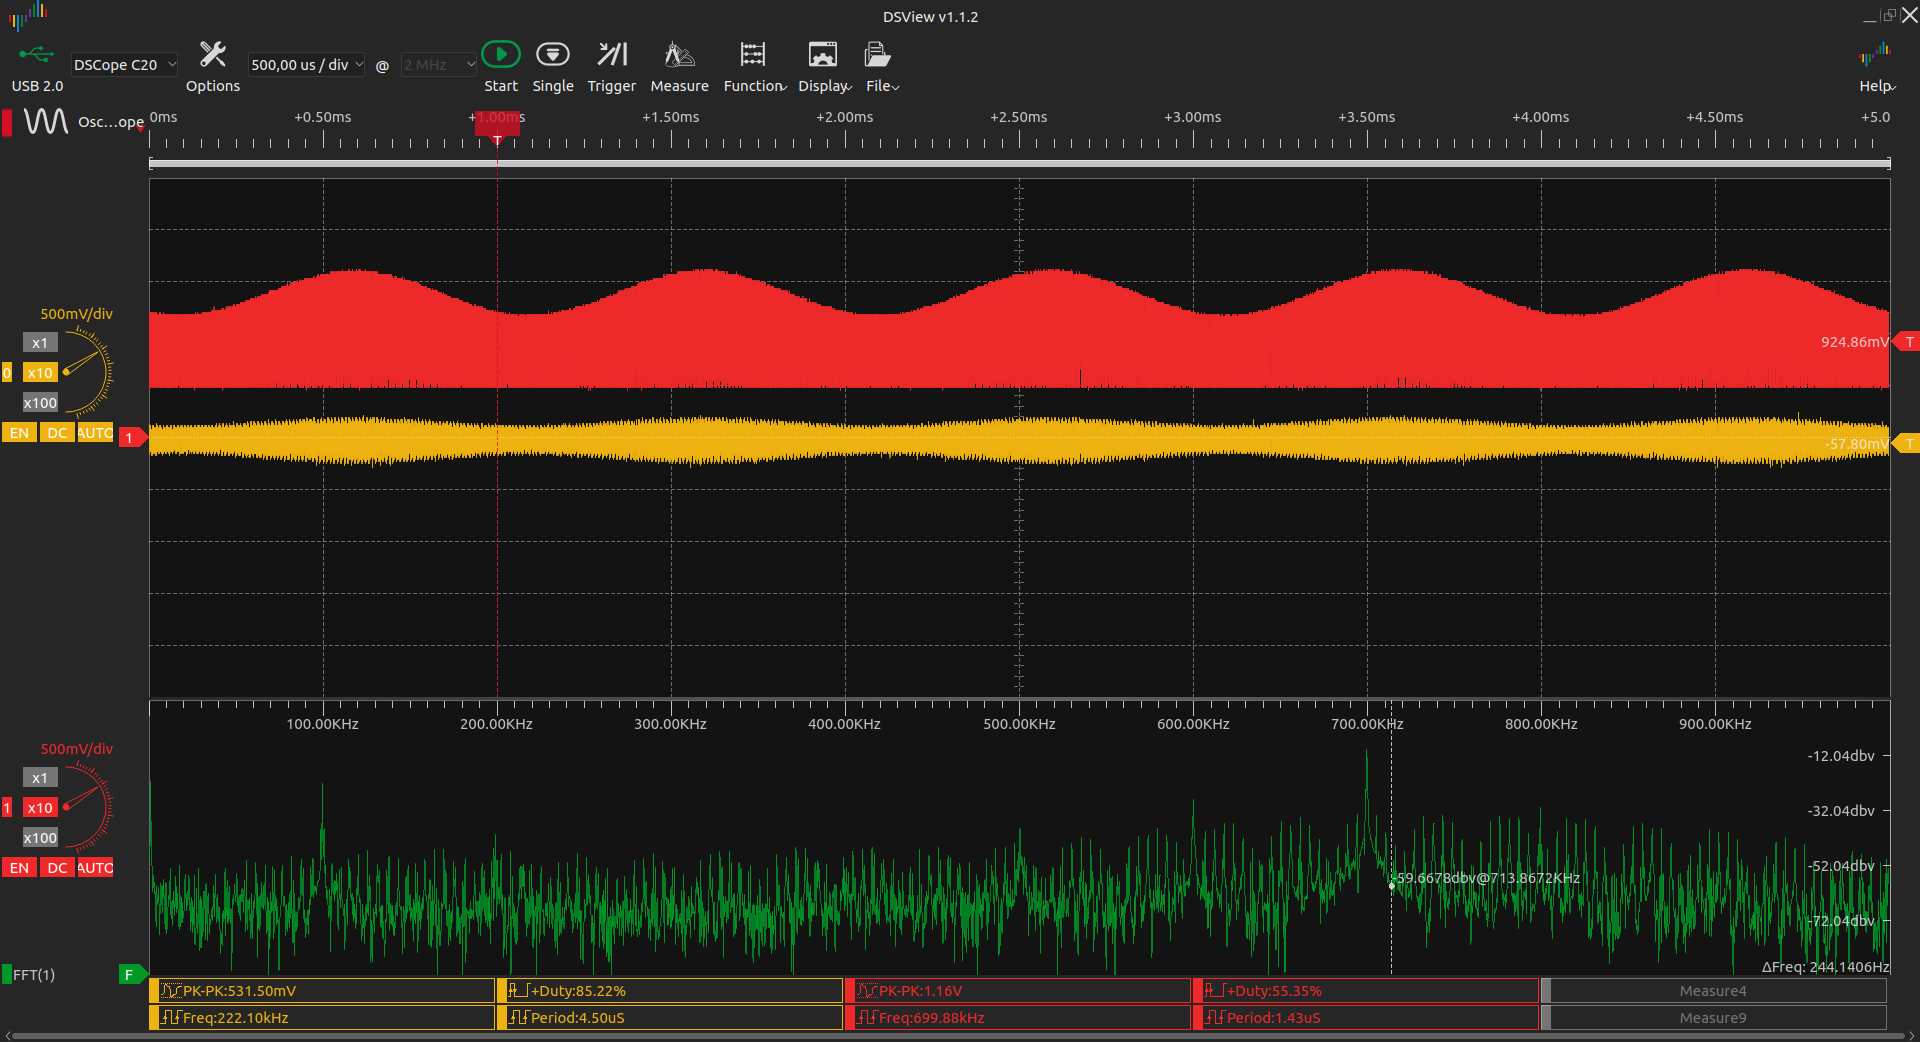
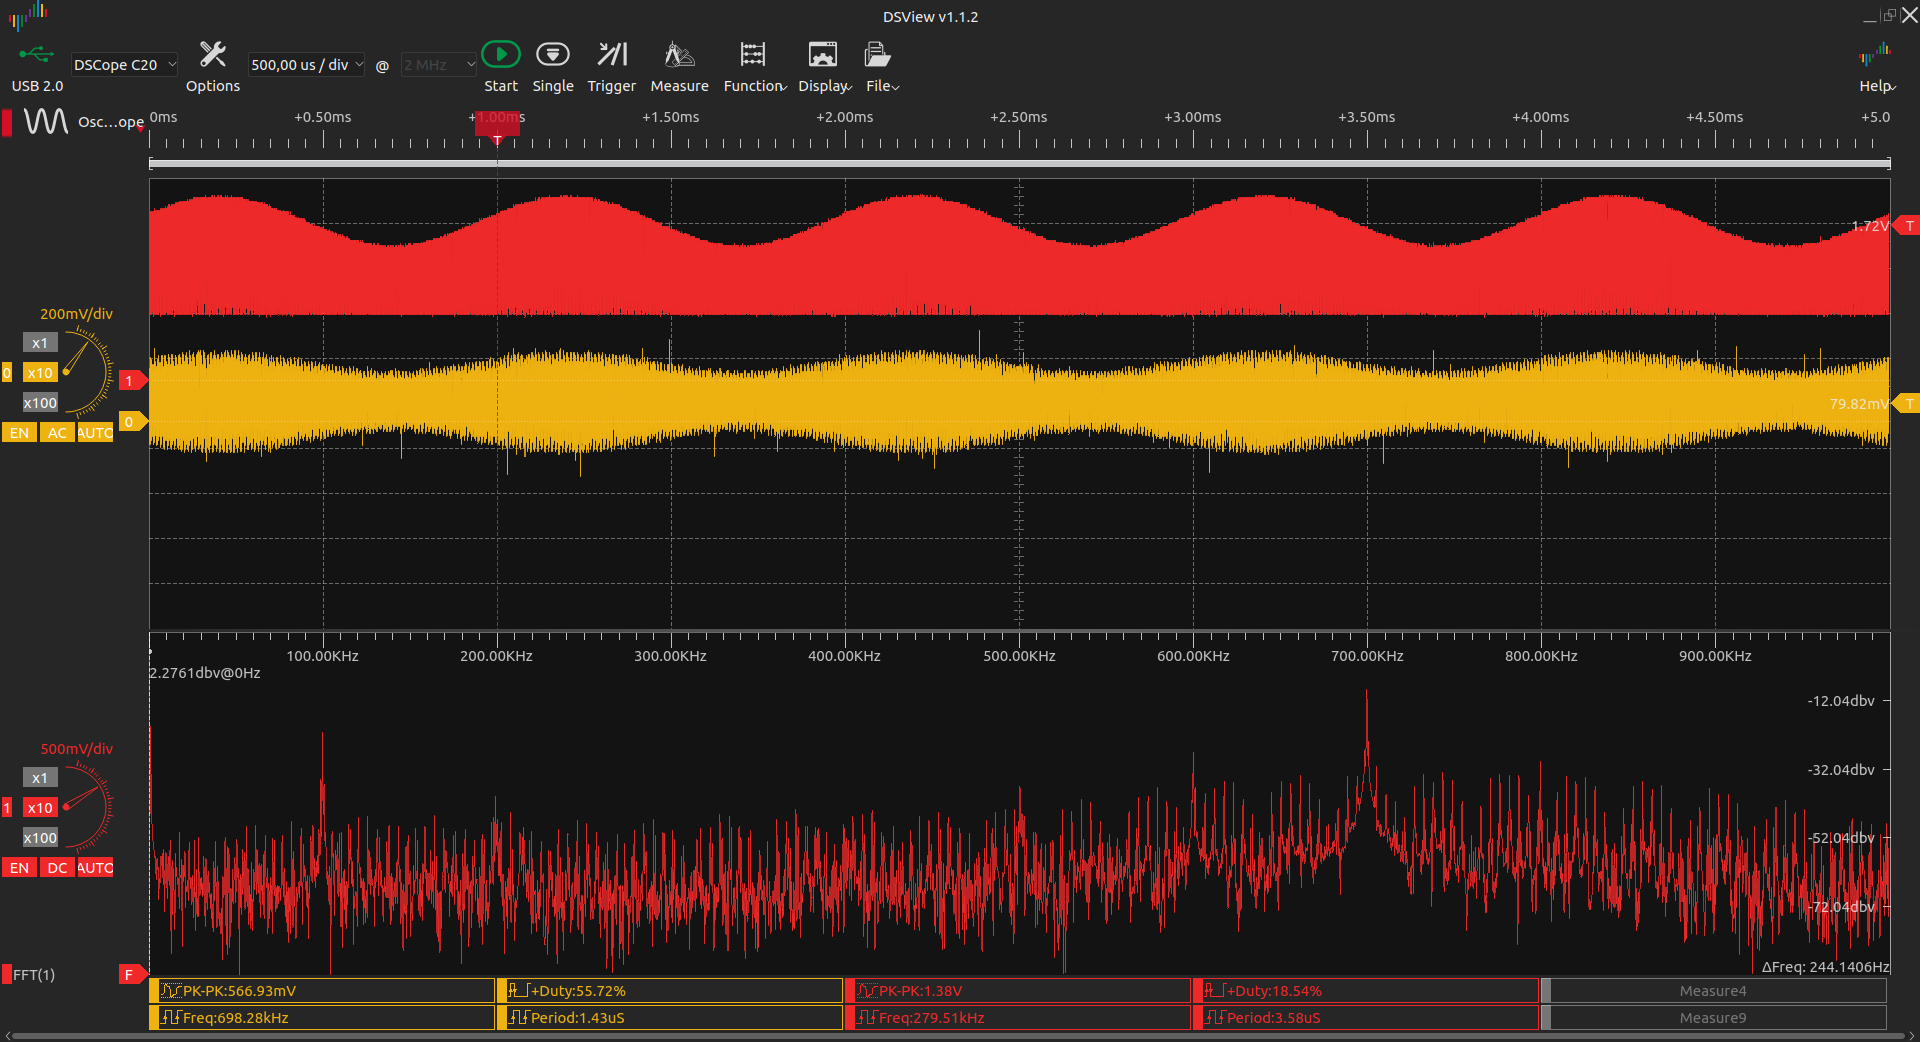
UP due am_dac

diff --git a/due/am_dac/README.md b/due/am_dac/README.md
@@ -55,9 +55,37 @@ O funcionamento do circuito ao redor do Arduíno é muito simples.
 * Assim temos um filtro passa banda conectado no DAC, formada por um filtro passa alta com frequência de corte 680kHz e um passa baixa frequência de corte 720kHz
 * E na saída do filtro a antena
 
-# Explicação do filtro:
+# Filtragem:
 
-Ao analisarmos o espectro FFT deste sinal vemos que a saída do DAC tem um componente DC muito alto, assim a necessidade de filtramos o sinal tanto para eliminar componentes de frequência indesejadas do sinal quanto para limitarmos a banda do sinal, abaixo temos duas imagens onde é possível ver os ecpectros FFT do DAC e da saída do filtro
+Para obter um sinal o mais próximo de um sinal AM comercial, é necessário aplicar um filtro na saída do DAC, o filtro tem algumas funções:
+
+* Eliminar a componente CC do sinal
+* Eliminar ou diminuir a contribuição de frequências além da fundamental (700 kHz) para o sinal
+* Limitar a largura de banda do sinal
+
+Como o objetivo é obter um sinal modulado em amplitude muito próximo do que é mostrado na imagem abaixo temos de fazer a filtragem.
+
+![am_mod](https://raw.githubusercontent.com/fgl27/Arduino_samples/master/due/am_dac/am_mod.png)
+
+Assim podemos ver o efeito que o filtro causa no sinal nas imagens abaixo, sem filtragem o sinal não é um AM puro, apos o filtro o sinal esta bem próximo de um AM modulado como o da imagem em exemplo acima.
+
+Sem filtragem:
+
+O canal 0 do osciloscópio (sinal amarelo) sua amplitude é de 3.3V esta conectado na saída do DAC, oscilando a uma frequência de 700kHz.<br>
+O canal 1 do osciloscópio (sinal vermelho) é o sinal de áudio original com um offset visto pela porta do ADC.<br>
+
+![out_antes_fitro](https://raw.githubusercontent.com/fgl27/Arduino_samples/master/due/am_dac/tone_1_kHz_antes.png)
+
+Com filtragem:
+
+O canal 0 do osciloscópio (sinal amarelo) sua amplitude é de 3.3V esta conectado na saída do filtro, oscilando a uma frequência de 700kHz.<br>
+O canal 1 do osciloscópio (sinal vermelho) é o sinal de áudio original com um offset visto pela porta do ADC.<br>
+
+![out_depois_filtro](https://raw.githubusercontent.com/fgl27/Arduino_samples/master/due/am_dac/tone_1_kHz_depois.png)
+
+# Analise do espectro FFT:
+
+Ao analisarmos o espectro FFT deste sinal vemos que a saída do DAC tem um componente DC muito alto, assim a necessidade de filtramos o sinal tanto para eliminar componentes de frequência indesejadas do sinal quanto para limitarmos a banda do sinal, abaixo temos duas imagens onde é possível ver os espectros FFT do DAC e da saída do filtro
 
 FFT DAC:<br>
 
